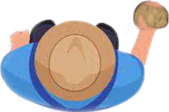
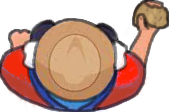
NewLogo Added

diff --git a/script/game.js b/script/game.js
@@ -6,6 +6,7 @@ class Game {
     // Background
     this.floor = new Image();
     this.floor.src = "./images/floor.jpeg";
+
     // Objets
     this.humanClass = new Human();
 
@@ -19,27 +20,23 @@ class Game {
     this.frames = 0;
     this.gameOn = true;
     this.noShoot = true;
+    
 
+    // Audio
     this.gameMusic = new Audio();
     this.gameMusic.src =
       "https://www.soundhelix.com/examples/mp3/SoundHelix-Song-2.mp3";
-    
   }
 
   // ! METHODS
 
-  gameOver = () => {
-    this.gameOn = false;
-    canvas.style.display = "none";
-    gameOverScreen.style.display = "grid";
-    this.gameMusic.pause()
-  };
+  //                * HIT
 
-  addPotato = () => {
-    let newPotato = new Potato(this.humanClass.x + 40, this.humanClass.y - 5);
+  cambioImagenHit = () => {
+    
+    this.chickenCage.splice(indexChicken, 1);
 
-    this.potatoReload.push(newPotato);
-  };
+  }
 
   potatoChickenHit = () => {
     this.potatoReload.forEach((eachPotato, indexPotato) => {
@@ -50,8 +47,19 @@ class Game {
           eachChicken.y < eachPotato.y + eachPotato.h &&
           eachChicken.h + eachChicken.y > eachPotato.y
         ) {
+          //let rChickenX =
+          //let rChickenY =
+          //let ChickenHit = new
+          //let newImgChicken = new Chicken(rChickenX, rChickenY, )
+          
           this.potatoReload.splice(indexPotato, 1);
-          this.chickenCage.splice(indexChicken, 1);
+         // this.chickenCage[indexChicken].img.src = "./images/chicken2.png"
+          //setTimeout(this.cambioImagenHit(), 1000)
+          this.chickenCage[indexChicken].img.src = "./images/chicken2.png"
+         
+            this.chickenCage.splice(indexChicken, 1);
+          
+          //this.chickenCage.splice(indexChicken, 1);
         }
       });
     });
@@ -91,6 +99,14 @@ class Game {
     });
   };
 
+  //                * ADD
+
+  addPotato = () => {
+    let newPotato = new Potato(this.humanClass.x + 40, this.humanClass.y - 5);
+
+    this.potatoReload.push(newPotato);
+  };
+
   addChicken = () => {
     if (this.frames % 180 === 0) {
       let rChickenX = Math.floor(Math.random() * 100);
@@ -120,6 +136,8 @@ class Game {
       this.pigCage.push(newPig);
     }
   };
+
+  //                * WOUND
 
   chickenHumanWound = () => {
     this.chickenCage.forEach((eachChicken) => {
@@ -166,9 +184,17 @@ class Game {
     ctx.drawImage(this.floor, 0, 0, canvas.width, canvas.height);
   };
 
+  //                * GAME
+  gameOver = () => {
+    this.gameOn = false;
+    canvas.style.display = "none";
+    gameOverScreen.style.display = "grid";
+    this.gameMusic.pause();
+  };
+
   gameLoop = () => {
     this.frames = this.frames + 1;
-
+    
     // * 1. Limpiar canvas
     ctx.clearRect(0, 0, canvas.Width, canvas.height);
 

diff --git a/style.css b/style.css
@@ -17,17 +17,18 @@ body {
   grid-template-rows: 11% 60% 15%;
   min-height: 100vh;
   justify-content: center;
+
   /* align-content: center; */
 
   gap: 20px;
 }
 
 #startmenu-screen {
+  display: grid;
   grid-column: 2 / 3;
   grid-row: 2 / 3;
-
-  width: 600px;
-  height: 700px;
+  margin-top: 60px;
+  margin-left: 105px
 }
 
 #my-canvas {
@@ -41,6 +42,7 @@ body {
 }
 
 #gameover-screen {
+  display: grid;
   grid-column: 2 / 3;
   grid-row: 2 / 3;
 
@@ -60,7 +62,8 @@ body {
   border-radius: 10px;
   border-style: ridge;
   padding: 10px;
-  margin: 20px 0px 0px 230px;
+  margin: 30px 30px 0px 50px;
+  bottom: 100px;
 }
 
 #my-canvas,

diff --git a/index.html b/index.html
@@ -12,9 +12,10 @@
   </head>
   <body>
     <div class="main">
+      
       <!-- MAIN MENU -->
       <div id="startmenu-screen">
-        <img src="./images/logofarmfake.png" width="640" alt="logo" />
+        <img src="./images/granjero.png" width="400px" alt="logo" />
         <button class="start-btn">Lets GO!</button>
         <button class="start-btn" onclick="location.href='./controls.html'">
           Controls

diff --git a/script/main.js b/script/main.js
@@ -23,7 +23,7 @@ const startGame = () => {
 // reStartGame
 const reStartGame = () => {
   gameOverScreen.style.display = "none";
-  canvas.style.display = "grid";
+  canvas.style.display = "block";
   gameClass = new Game();
   gameClass.gameLoop();
   gameClass.gameMusic.play()
